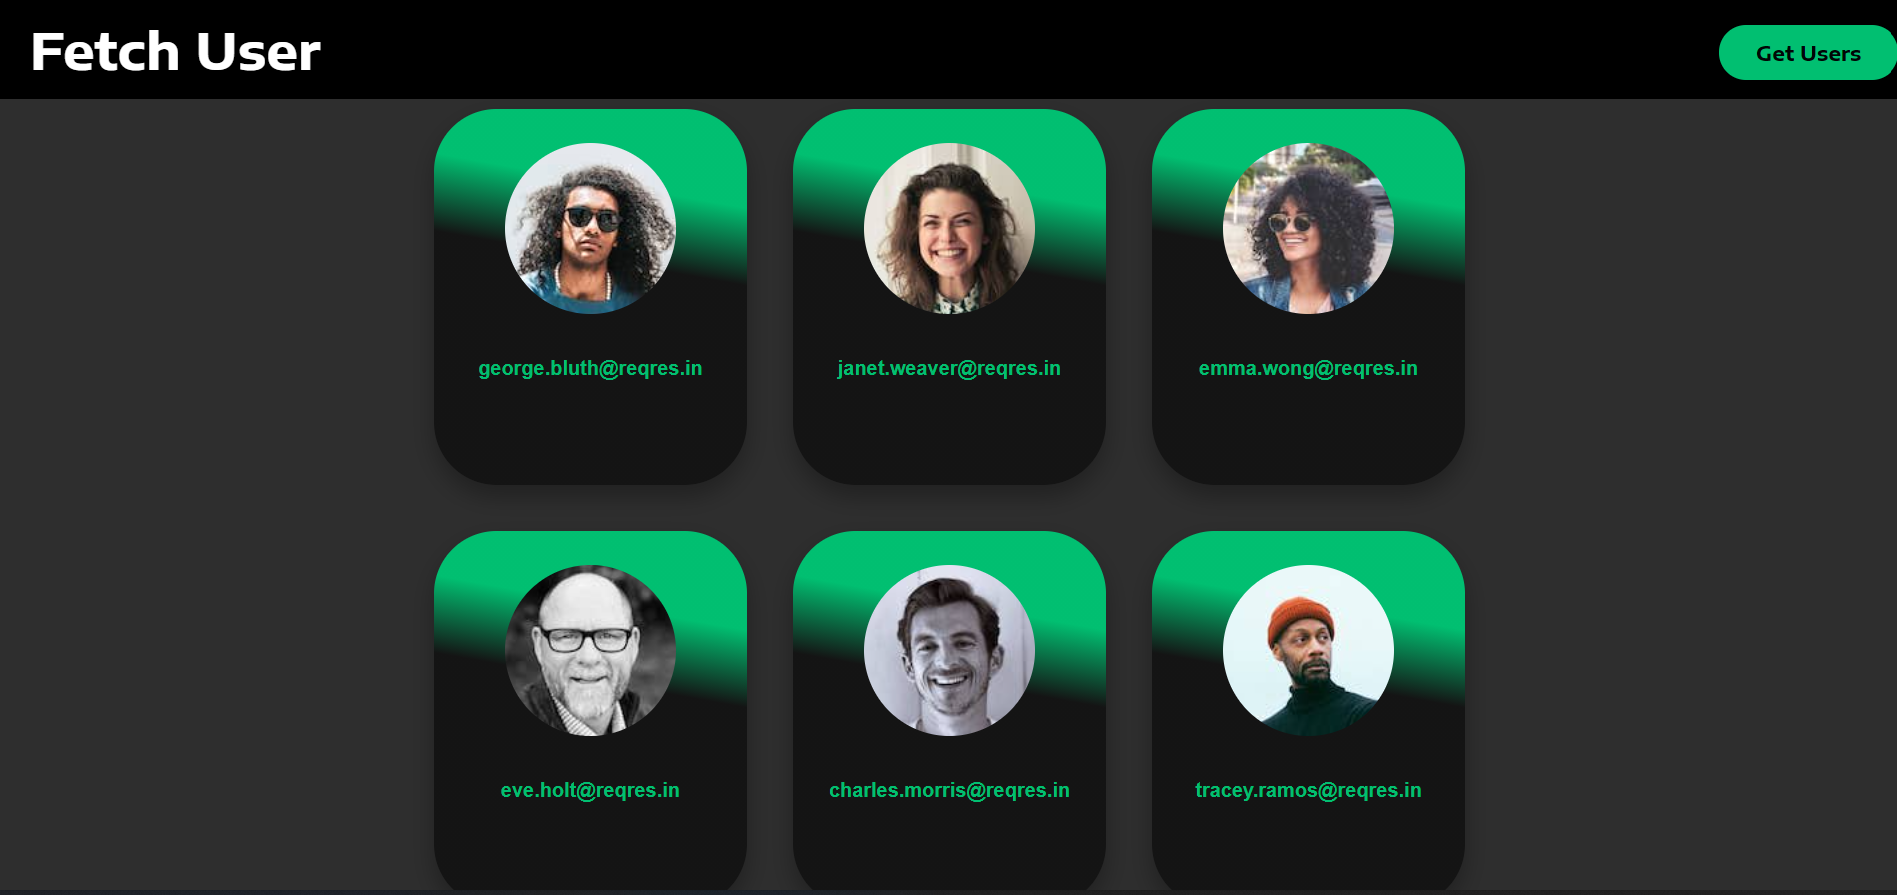
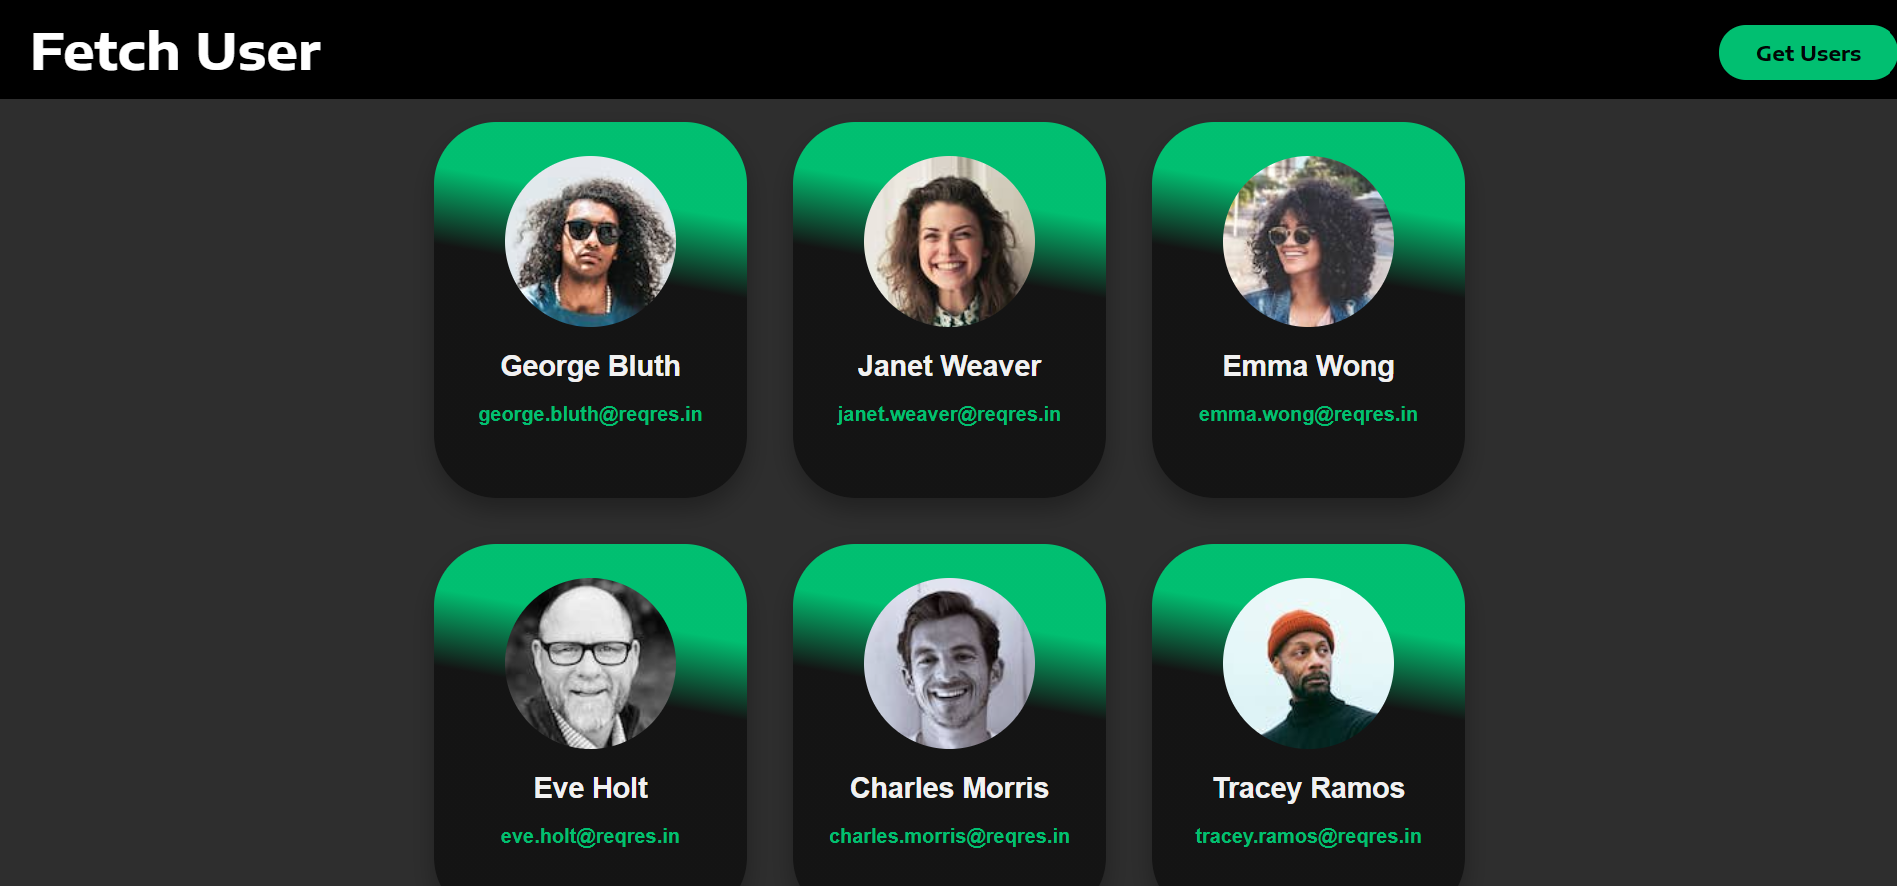
Name-Fix

diff --git a/task-2/src/MainPage/Main.js b/task-2/src/MainPage/Main.js
@@ -33,8 +33,8 @@ const Main = () => {
                 <UserCard
                   key={user.id}
                   email={user.email}
-                  firstName={user.first_name}
-                  lastName={user.last_name}
+                  FirstName={user.first_name}
+                  LastName={user.last_name}
                   avatar={user.avatar}
                 />
               );

diff --git a/task-2/README.md b/task-2/README.md
@@ -4,4 +4,4 @@
 
 Create A web Application using ReactJS
 
-![](src/readmeImg/task-2.png)
+![](task-2/src/readmeImg/task-2.png)
